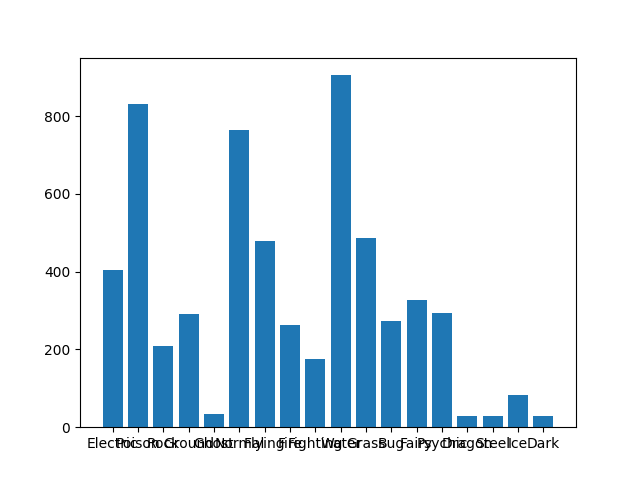
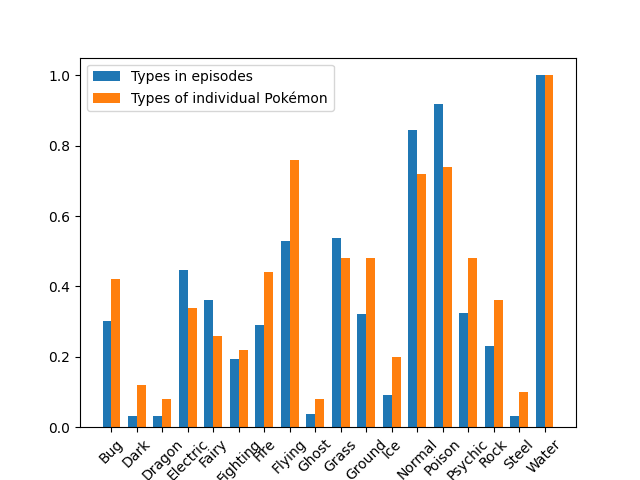
better plot

diff --git a/plots.py b/plots.py
@@ -1,4 +1,5 @@
 from matplotlib import pyplot as plt
+import numpy as np
 from wordcloud import WordCloud
 import re
 import matplotlib.pyplot as plt
@@ -66,6 +67,10 @@ def get_pokemon_name(name):
 
 def plot_type_representation(episodes, pokemon_json, file):
     types = {}
+    single_types = {}
+    types_max = None
+    single_types_max = None
+    
     for index, episode in episodes.iterrows():
         pokemons = list(map(lambda x: get_pokemon_name(x), episode["Characters"]["Pokemons"]))
         for pokemon in pokemons:
@@ -75,6 +80,36 @@ def plot_type_representation(episodes, pokemon_json, file):
             pokemon_obj = pokemon_json[pokemon]
             for type in pokemon_obj["Types"]:
                 if type is not None:
-                    types[type] = types.get(type, 0) + 1
-    plt.bar(*zip(*types.items()))
+                    val = types.get(type, 0) + 1
+                    types[type] = val
+                    if types_max is None or val > types_max:
+                        types_max = val
+
+    for pokemon in pokemon_json:
+        pokemon_obj = pokemon_json[pokemon]
+        for type in pokemon_obj["Types"]:
+            if type is not None:
+                val = single_types.get(type, 0) + 1
+                single_types[type] = val
+                if single_types_max is None or val > single_types_max:
+                    single_types_max = val
+    
+    for key, val in types.items():
+        types[key] = val/types_max
+    for key, val in single_types.items():
+        single_types[key] = val/single_types_max
+
+    types = dict(sorted(types.items()))
+    single_types = dict(sorted(single_types.items()))
+
+    n = len(types)
+    x = np.arange(n)
+    width = 0.35
+
+    plt.bar(x, types.values(), width=width, label='Types in episodes')
+    plt.bar(x + width, single_types.values(), width=width, label='Types of individual Pokémon')
+
+    plt.xticks(x + width / 2, types.keys(), rotation=45)  
+    plt.legend()
+
     plt.savefig(file)
